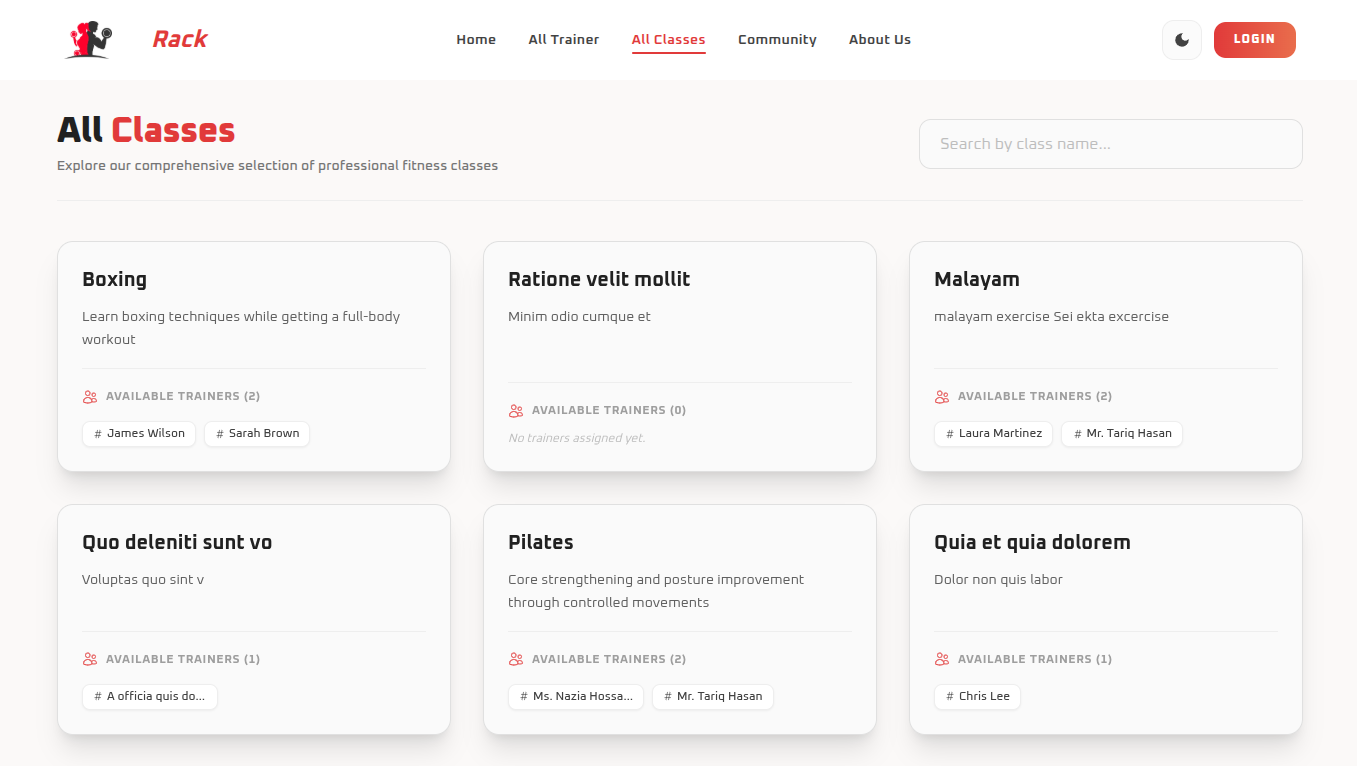
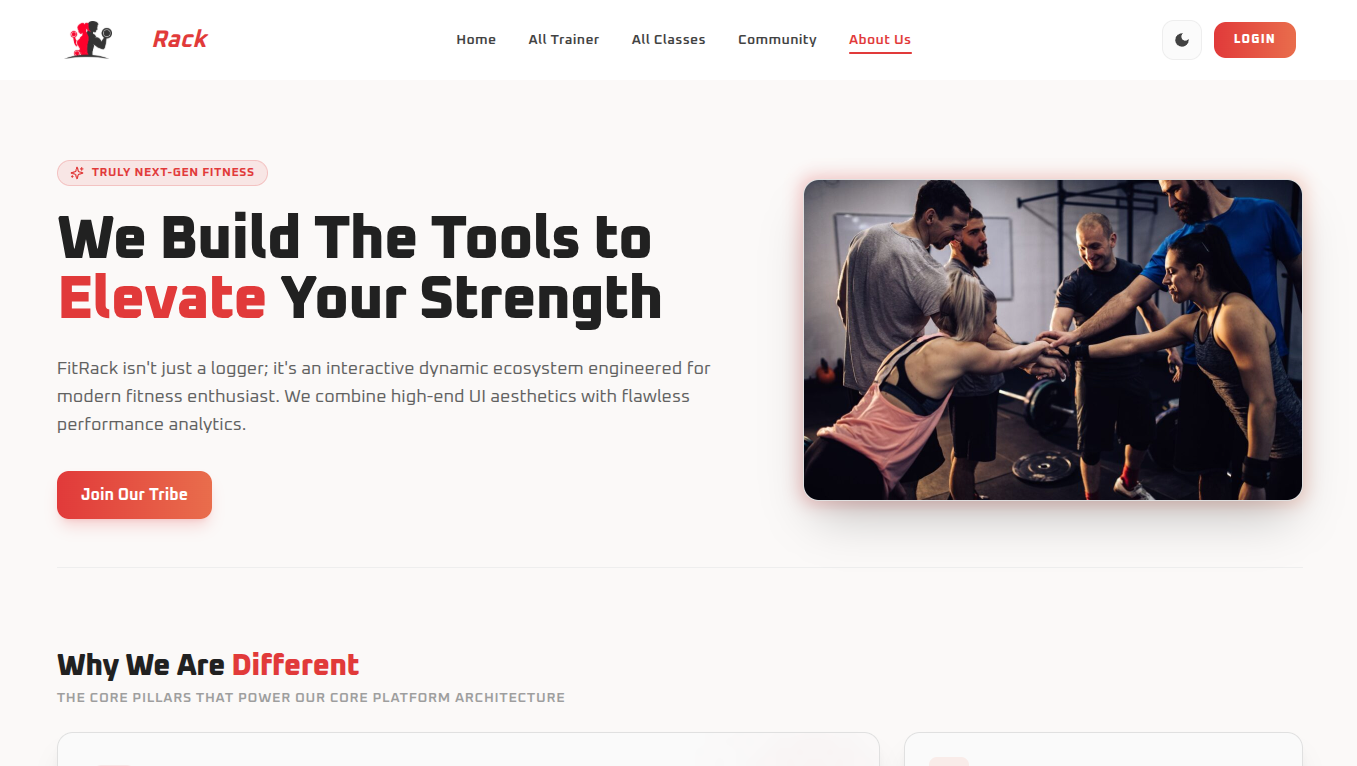
project cover changed

diff --git a/src/data/projectData.ts b/src/data/projectData.ts
@@ -18,10 +18,10 @@ export const projectCards: ProjectCard[] = [
   {
     id: 2,
     image: [
+      "/images/fitrack/cover.png",
       "/images/fitrack/1.png",
       "/images/fitrack/2.png",
       "/images/fitrack/3.png",
-      "/images/fitrack/4.png",
     ],
     title: "FitRack",
     description:
@@ -55,6 +55,7 @@ export const projectCards: ProjectCard[] = [
   {
     id: 3,
     image: [
+      "/images/pastportals/cover.png",
       "/images/pastportals/1.png",
       "/images/pastportals/2.png",
       "/images/pastportals/3.png",
@@ -82,7 +83,12 @@ export const projectCards: ProjectCard[] = [
   },
   {
     id: 4,
-    image: ["/images/logiclab/1.png", "/images/logiclab/2.png"],
+    image: [
+      "/images/logiclab/cover.png",
+      "/images/logiclab/1.png",
+      "/images/logiclab/2.png",
+      "/images/logiclab/3.png",
+    ],
     title: "LogicLab.",
     description:
       "LogicLab is a comprehensive React & JavaScript logic showcase engineered to demonstrate essential web development patterns, custom hook architectures, and frontend algorithms.",
@@ -105,7 +111,12 @@ export const projectCards: ProjectCard[] = [
   },
   {
     id: 5,
-    image: ["/images/devtech.png"],
+    image: [
+      "/images/devtech/cover.png",
+      "/images/devtech/1.png",
+      "/images/devtech/2.png",
+      "/images/devtech/3.png",
+    ],
     title: "DevTech Ltd.",
     description:
       "A specialized digital agency driven by a collaborative team of developers and UI/UX designers. We design and engineer end-to-end web applications, dynamic digital products, and high-converting user interfaces.",
@@ -129,6 +140,7 @@ export const projectCards: ProjectCard[] = [
   {
     id: 6,
     image: [
+      "/images/lingobingo/cover.png",
       "/images/lingobingo/1.png",
       "/images/lingobingo/2.png",
       "/images/lingobingo/3.png",
@@ -156,6 +168,7 @@ export const projectCards: ProjectCard[] = [
   {
     id: 7,
     image: [
+      "/images/visorix/cover.png",
       "/images/visorix/1.png",
       "/images/visorix/2.png",
       "/images/visorix/3.png",
